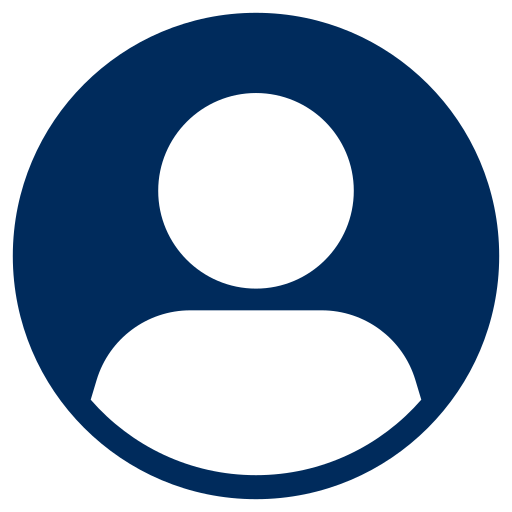
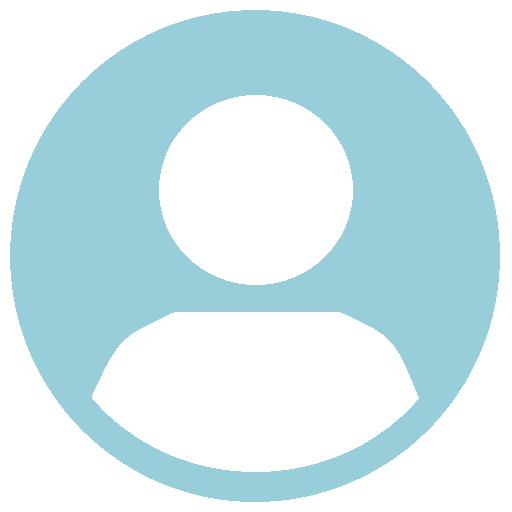
Login Button and logaut and popUp

diff --git a/VitalTech/src/app/components/header/header.component.css b/VitalTech/src/app/components/header/header.component.css
@@ -1,4 +1,3 @@
-
 .credito {
     display: flex;
     align-items: center;
@@ -7,12 +6,13 @@
 }
 
 .credito img {
-    width: 75px; /* Aumenta el tamaño del logo */
+    width: 75px;
+    /* Aumenta el tamaño del logo */
     height: 70px;
     margin-right: 1rem;
     margin-left: 1rem;
 }
- 
+
 .header {
     position: fixed;
     top: 0;
@@ -25,6 +25,7 @@
 }
 
 .titulo {
+
     display: flex;
     align-items: center;
     justify-content: flex-start;
@@ -34,30 +35,37 @@
     font-family: Arial, Helvetica, sans-serif;
     color: antiquewhite;
     font-size: 20px;
+
 }
+
 nav {
+
     display: flex;
-    justify-content: flex-end;
-    
+    align-items: center;
+    text-align: center;
+
 }
+
 .nav-item {
-    padding-left: 10px ;
-    padding-right: 10px ;
+
+    padding-left: 10px;
+    padding-right: 10px;
+
 }
 
 .nav-item a {
     text-decoration: none;
-    color:black;
+    color: black;
 }
 
 .nav-items {
     display: flex;
-    margin-left:auto ;
+    margin-left: auto;
     margin-right: 10px;
     font-family: Arial, Helvetica, sans-serif;
 }
 
-.nav-item .active{
+.nav-item .active {
     color: antiquewhite;
 }
 
@@ -70,7 +78,17 @@ div button {
 
 div button img {
 
-   width: 3.5em;
-   height: auto;
+    width: 3.5em;
+    height: auto;
+    transition: transform 0.3s ease;
+
+}
+
+div button img:hover {
+
+    cursor: pointer;
+    transform: scale(1.1428571428571);
+    margin-left: 1.2em;
+    margin-right: 1.2em;
 
 }

diff --git a/VitalTech/src/app/components/header/header.component.ts b/VitalTech/src/app/components/header/header.component.ts
@@ -19,7 +19,7 @@ export class HeaderComponent {
   isAuthenticated = false;
   nom = '';
 
-  constructor(private router: Router, public dialog: MatDialog) {}
+  constructor(private router: Router, public dialog: MatDialog) { }
 
   ngOnInit() {
     this.oidcSecurityService.checkAuth().subscribe(({ isAuthenticated, userData }) => {
@@ -34,20 +34,15 @@ export class HeaderComponent {
 
   onLogin(): void {
     this.oidcSecurityService.authorize();
-}
+  }
 
-  openDialog(): void
-  {
-  this.dialog.open(PopUpLogoutComponent, {
+  openDialog(): void {
+    this.dialog.open(PopUpLogoutComponent, {
       data: {},
       width: "auto",
       height: "auto"
     })
 
-  }
-
-  onLogout(): void {
-    this.oidcSecurityService.logoff().subscribe((result) => console.log(result));
   }
 
 }

diff --git a/VitalTech/src/app/components/header/pages/pop-up-logout/pop-up-logout.component.ts b/VitalTech/src/app/components/header/pages/pop-up-logout/pop-up-logout.component.ts
@@ -1,4 +1,5 @@
-import { Component } from '@angular/core';
+import { Component, inject } from '@angular/core';
+import { OidcSecurityService } from 'angular-auth-oidc-client';
 import { MAT_DIALOG_DATA } from '@angular/material/dialog';
 import { Inject } from '@angular/core';
 
@@ -11,9 +12,17 @@ import { Inject } from '@angular/core';
 })
 export class PopUpLogoutComponent {
 
+  private readonly oidcSecurityService = inject(OidcSecurityService);
+  isAuthenticated = false;
+  nom = '';
+
   constructor(@Inject(MAT_DIALOG_DATA) public data: any) 
   {
 
+  }
+
+  onLogout(): void {
+    this.oidcSecurityService.logoff().subscribe((result) => console.log(result));
   }
 
 }

diff --git a/VitalTech/src/app/components/header/header.component.html b/VitalTech/src/app/components/header/header.component.html
@@ -8,7 +8,7 @@
             <div class="nav-item"><a routerLink="/login" routerLinkActive="active">Exit</a></div>
             <div class="nav-item">
                 <button *ngIf="!isAuthenticated; else loggedIn" (click)="onLogin()">
-                    <img src="assets/login/login.png" titile="Login icons created by srip - Flaticon" alt="Login">
+                    <img src="assets/login/user.png" title="Individual icons created by meaicon - Flatico" alt="Login">
                 </button>
                 <ng-template #loggedIn>
 

diff --git a/VitalTech/src/app/components/header/pages/pop-up-logout/pop-up-logout.component.html b/VitalTech/src/app/components/header/pages/pop-up-logout/pop-up-logout.component.html
@@ -1,9 +1,9 @@
 <body>
-    
+
     <h1>Sessio</h1>
 
+    <button class="nav-item" (click)="onLogout()">
+        Logaut
+    </button>
+
 </body>
-
-
-
-
